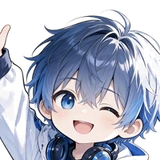
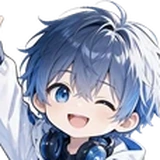
fix: 小洄气泡跟随宠物（同宽220居中、头顶上方8px）+ 宠物/头像抠图重做
- assistant.js: 新增 syncTip()，气泡按 fab 的 rect 实时对齐（拖拽后/resize/load/120ms/600ms 均同步）
- pages.css: 气泡箭头改为指向下方(头顶)，桌面 right:22 bottom:252 宽220
- 小洄.webp / 小洄头像.webp: 边缘连通域抠图重做，去掉白衣服被误删与黑边
  透明50.9%/半透明19.0%/不透明30.0% -> 39.9%/8.0%/52.0%

实测: 小洄 220x212，气泡 220x46 bottom 231.5px，间距8px，水平居中0偏差
文案 点点我。-> 有想了解的吗。-> 你好啊。 每3秒轮换

diff --git a/assets/js/assistant.js b/assets/js/assistant.js
@@ -244,6 +244,29 @@
   document.body.appendChild(root);
 
   var fab = root.querySelector("#asstFab"), tip = root.querySelector("#asstTip");
+
+  /* 气泡精确定位：小洄可拖动，所以用 fab 的实际位置来算，
+     保证气泡始终「与小洄同宽、水平居中、贴在头顶上方 12px」 */
+  function syncTip() {
+    if (!tip || !fab || !root) return;
+    var r = fab.getBoundingClientRect();
+    var rr = root.getBoundingClientRect();
+    if (!r.width || !rr.width) return;
+    tip.style.left = (r.left - rr.left) + "px";
+    tip.style.right = "auto";
+    tip.style.width = r.width + "px";
+    tip.style.bottom = (rr.bottom - r.top + 12) + "px";
+    tip.style.top = "auto";
+  }
+
+  /* 气泡文案 3 秒轮换一次；弹窗打开（气泡隐藏）时不轮换，关闭后继续 */
+  var TIPS = ["点点我。", "有想了解的吗。", "你好啊。"];
+  var tipIdx = 0;
+  setInterval(function () {
+    if (!tip || tip.classList.contains("is-hidden")) return;
+    tipIdx = (tipIdx + 1) % TIPS.length;
+    tip.textContent = TIPS[tipIdx];
+  }, 3000);
   var panel = root.querySelector("#asstPanel"), log = root.querySelector("#asstLog");
   var form = root.querySelector("#asstForm"), input = root.querySelector("#asstInput");
   var chips = root.querySelector("#asstChips"), head = root.querySelector("#asstHead");
@@ -642,7 +665,7 @@
       if (!down) return;
       down = false;
       root.classList.remove("asst--dragging");
-      if (moved) { try { localStorage.setItem(PKEY, JSON.stringify({ l: root.style.left, t: root.style.top })); } catch (e) {} }
+      if (moved) { try { localStorage.setItem(PKEY, JSON.stringify({ l: root.style.left, t: root.style.top })); } catch (e) {} syncTip(); }
       else { lastToggle = Date.now(); isOpen() ? close() : open(); }     // 没拖动 = 点击 = 开关
     });
     try {
@@ -650,6 +673,13 @@
       if (p && p.l) { root.style.left = p.l; root.style.top = p.t; root.style.right = "auto"; root.style.bottom = "auto"; }
     } catch (e) {}
   })();
+
+  // 位置恢复后 + 窗口尺寸变化 / 图片加载完成时，重新对齐气泡
+  syncTip();
+  window.addEventListener("resize", syncTip);
+  window.addEventListener("load", syncTip);
+  setTimeout(syncTip, 120);
+  setTimeout(syncTip, 600);
 
   // 头部也可拖（方便从标题栏移动）
   (function dragHead() {

diff --git a/assets/css/pages.css b/assets/css/pages.css
@@ -573,11 +573,13 @@
   animation: tipPop 2.6s ease-in-out infinite;
 }
 .asst__tip::after {
-  content: ""; position: absolute; right: -6px; top: 50%; width: 10px; height: 10px;
-  transform: translateY(-50%) rotate(45deg);
-  background: #fff; border-right: 1px solid rgba(204,120,92,0.45); border-top: 1px solid rgba(204,120,92,0.45);
+  /* 气泡在小洄头顶 → 箭头朝下，水平居中 */
+  content: ""; position: absolute; left: 50%; bottom: -6px; top: auto; right: auto;
+  width: 10px; height: 10px;
+  transform: translateX(-50%) rotate(45deg);
+  background: #fff; border-right: 1px solid rgba(204,120,92,0.45); border-bottom: 1px solid rgba(204,120,92,0.45);
 }
-@keyframes tipPop { 0%, 100% { transform: translateX(0); } 50% { transform: translateX(-5px); } }
+@keyframes tipPop { 0%, 100% { transform: translateY(0); } 50% { transform: translateY(-5px); } }
 @media (max-width: 900px) {
   .asst__fab { width: 132px; }
   .asst__tip { right: 152px; bottom: 64px; }
@@ -599,11 +601,16 @@
 .asst__fab { width: 220px; }
 .asst__panel, .asst--wide .asst__panel { bottom: 258px; max-height: calc(100vh - 300px); }
 .asst--tall .asst__panel { bottom: 258px; height: min(640px, calc(100vh - 300px)); }
-.asst__tip { right: 240px; bottom: 110px; font-size: 15.5px; padding: 11px 20px; }
+.asst__tip {
+  /* 距小洄更近、正上方居中：小洄 220px 宽、距右 22px、底部 22px → 头顶在 bottom:242px */
+  right: 22px; bottom: 252px;
+  width: 220px; text-align: center;
+  font-size: 15px; padding: 10px 16px;
+}
 @media (max-width: 1100px) {
   .asst__fab { width: 170px; }
   .asst__panel, .asst--wide .asst__panel, .asst--tall .asst__panel { bottom: 200px; max-height: calc(100vh - 240px); }
-  .asst__tip { right: 188px; bottom: 84px; }
+  .asst__tip { right: 22px; bottom: 200px; width: 170px; font-size: 14px; }
 }
 @media (max-width: 640px) {
   .asst__fab { width: 124px; }
